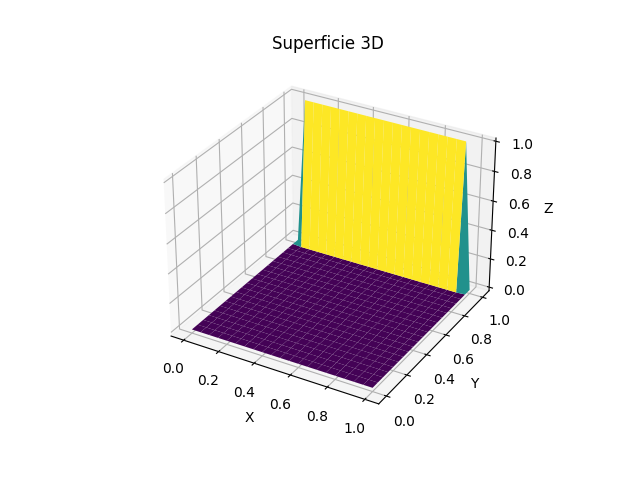
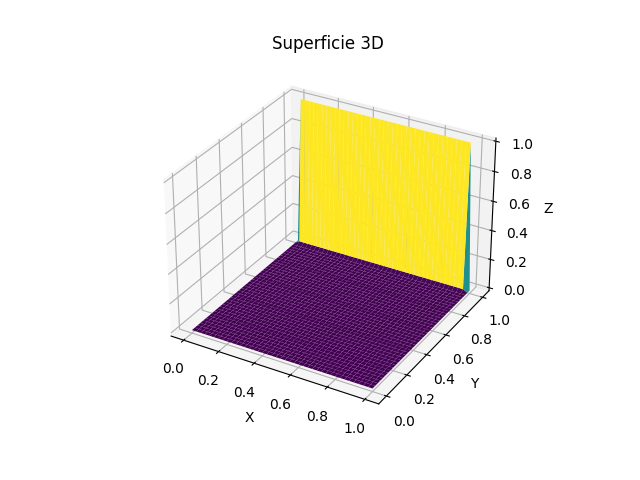
ecuacion de poisson

Changed region(s): [[0.2812, 0.1875, 0.75, 0.8125], [0.7812, 0.5312, 0.8438, 0.5625], [0.7812, 0.4688, 0.8438, 0.5]]

diff --git a/Practicas/ejemplo1.py b/Practicas/ejemplo1.py
@@ -2,39 +2,45 @@ import numpy as np
 import matplotlib.pyplot as plt
 
 a = 0
-b = 1
+b = 5
 c = 0
-d = 1
+d = 10
+
+M = 400
 N = 40
-M = 40
+
 h = (b - a) / N
 k = (d - c) / M
-w = [[0 for i in range(N + 1)] for j in range(M + 1)]
 
-def f(i, j):
+w = np.zeros((M+1, N+1))
+
+v = 0.8
+
+def f(x):
+    if 0<=x<=b/2:
+        return 1
+    elif b/2<x<=b:
+        return 0
+
+def g(x):
     return 0
 
-for i in range(N):
-    for j in range(M):
-        w[i][j] = 0
-
 # Aquí introducimos los datos de contorno
+for j in range(1, M):
+    w[j][0] = 0
+    w[j][N] = 0
+
 for i in range(1, N):
-    w[0][i] = 0
-    w[M][i] = (a + i*h)**2
+    w[0][i] = f(i * h) 
+    w[1][i] = w[0][i] + k * g(i * h)
 
 for j in range(1, M):
-    w[j][0] = 1 - (c + j*k)**2
-    w[j][N] = 1
-
-for p in range(100):
     for i in range(1, N):
-        for j in range(1, M):
-            w[i][j] = (k ** 2 * (w[i + 1][j] + w[i - 1][j]) + h ** 2 * (w[i][j + 1] + w[i][j - 1]) - (h * k) ** 2 * f(i, j)) / (2 * (h ** 2 + k ** 2))
+        w[j+1][i] = 2 * (1 - (v**2 * k**2)/h**2)*w[j][i] + (v**2 * k**2)/h**2 * (w[j][i+1] + w[j][i-1]) - w[j-1][i]
 
 # Definir los puntos x, y, z para la superficie
-x = np.linspace(a, b, M + 1)
-y = np.linspace(c, d, N + 1)
+x = np.linspace(a, b, N + 1)
+y = np.linspace(c, d, M + 1)
 x, y = np.meshgrid(x, y)
 z = np.array(w)
 
@@ -52,5 +58,5 @@ ax.set_zlabel('Z')
 ax.set_title('Superficie 3D')
 
 # Mostrar el gráfico
-plt.savefig('img/Poisson2.png')
 plt.show()
+

diff --git a/Practicas/poisson.py b/Practicas/poisson.py
@@ -1,0 +1,66 @@
+import numpy as np
+import matplotlib.pyplot as plt
+
+#x = a + i*h
+#y = c + j*k
+
+a = 0
+b = 1
+c = 0
+d = 1
+
+M = 40
+N = 40
+
+h = (b - a) / N
+k = (d - c) / M
+
+lamda = 1
+
+w = np.zeros((M+1, N+1))
+
+def f(i, j):
+    return np.sin(np.pi * i * h) * np.sin(np.pi * j * k)
+
+def g(i, j):
+    return 0
+
+# Aquí introducimos los datos de contorno u(i, y)
+for i in range(1, N):
+    w[0][i] = 0
+    w[M][i] = 1
+
+# Aquí introducimos los datos de contorno u(x, j)
+for j in range(1, M):
+    w[j][0] = 0
+    w[j][N] = 0
+
+
+# Método de diferencias finitas
+for p in range(100):
+    for j in range(1, M):
+        for i in range(1, N):
+            w[j][i] = (k**2 * (w[j][i+1] + w[j][i-1]) + h**2 * (w[j+1][i] + w[j-1][i]) - (
+                        h * k) ** 2 * f(i, j))/(2*k**2 + 2*h**2 - lamda**2 * h**2 * k**2)
+
+# Definir los puntos x, y, z para la superficie
+x = np.linspace(a, b, N + 1)
+y = np.linspace(c, d, M + 1)
+x, y = np.meshgrid(x, y)
+z = np.array(w)
+
+# Crear la figura y el eje 3D
+fig = plt.figure()
+ax = fig.add_subplot(111, projection='3d')
+
+# Trazar la superficie
+ax.plot_surface(x, y, z, cmap='viridis')
+
+# Configurar etiquetas
+ax.set_xlabel('X')
+ax.set_ylabel('Y')
+ax.set_zlabel('Z')
+ax.set_title('Superficie 3D')
+
+# Mostrar el gráfico
+plt.show()

diff --git a/Poisson/Ej1.py b/Poisson/Ej1.py
@@ -15,10 +15,6 @@ w = [[0 for i in range(N + 1)] for j in range(M + 1)]
 def f(i, j):
     return 0
 
-for i in range(N):
-    for j in range(M):
-        w[i][j] = 0
-
 # Aquí introducimos los datos de contorno
 for i in range(1, N):
     w[i][0] = 0
@@ -31,8 +27,7 @@ for j in range(1, M):
 for p in range(100):
     for i in range(1, N):
         for j in range(1, M):
-            w[i][j] = (k ** 2 * (w[i + 1][j] + w[i - 1][j]) + h ** 2 * (w[i][j + 1] + w[i][j - 1]) - (
-                        h * k) ** 2 * f(i, j)) / (2 * (h ** 2 + k ** 2))
+            w[i][j] = (k ** 2 * (w[i + 1][j] + w[i - 1][j]) + h ** 2 * (w[i][j + 1] + w[i][j - 1]) - (h * k) ** 2 * f(i, j)) / (2 * (h ** 2 + k ** 2))
 
 # Definir los puntos x, y, z para la superficie
 x = np.linspace(a, b, M + 1)
